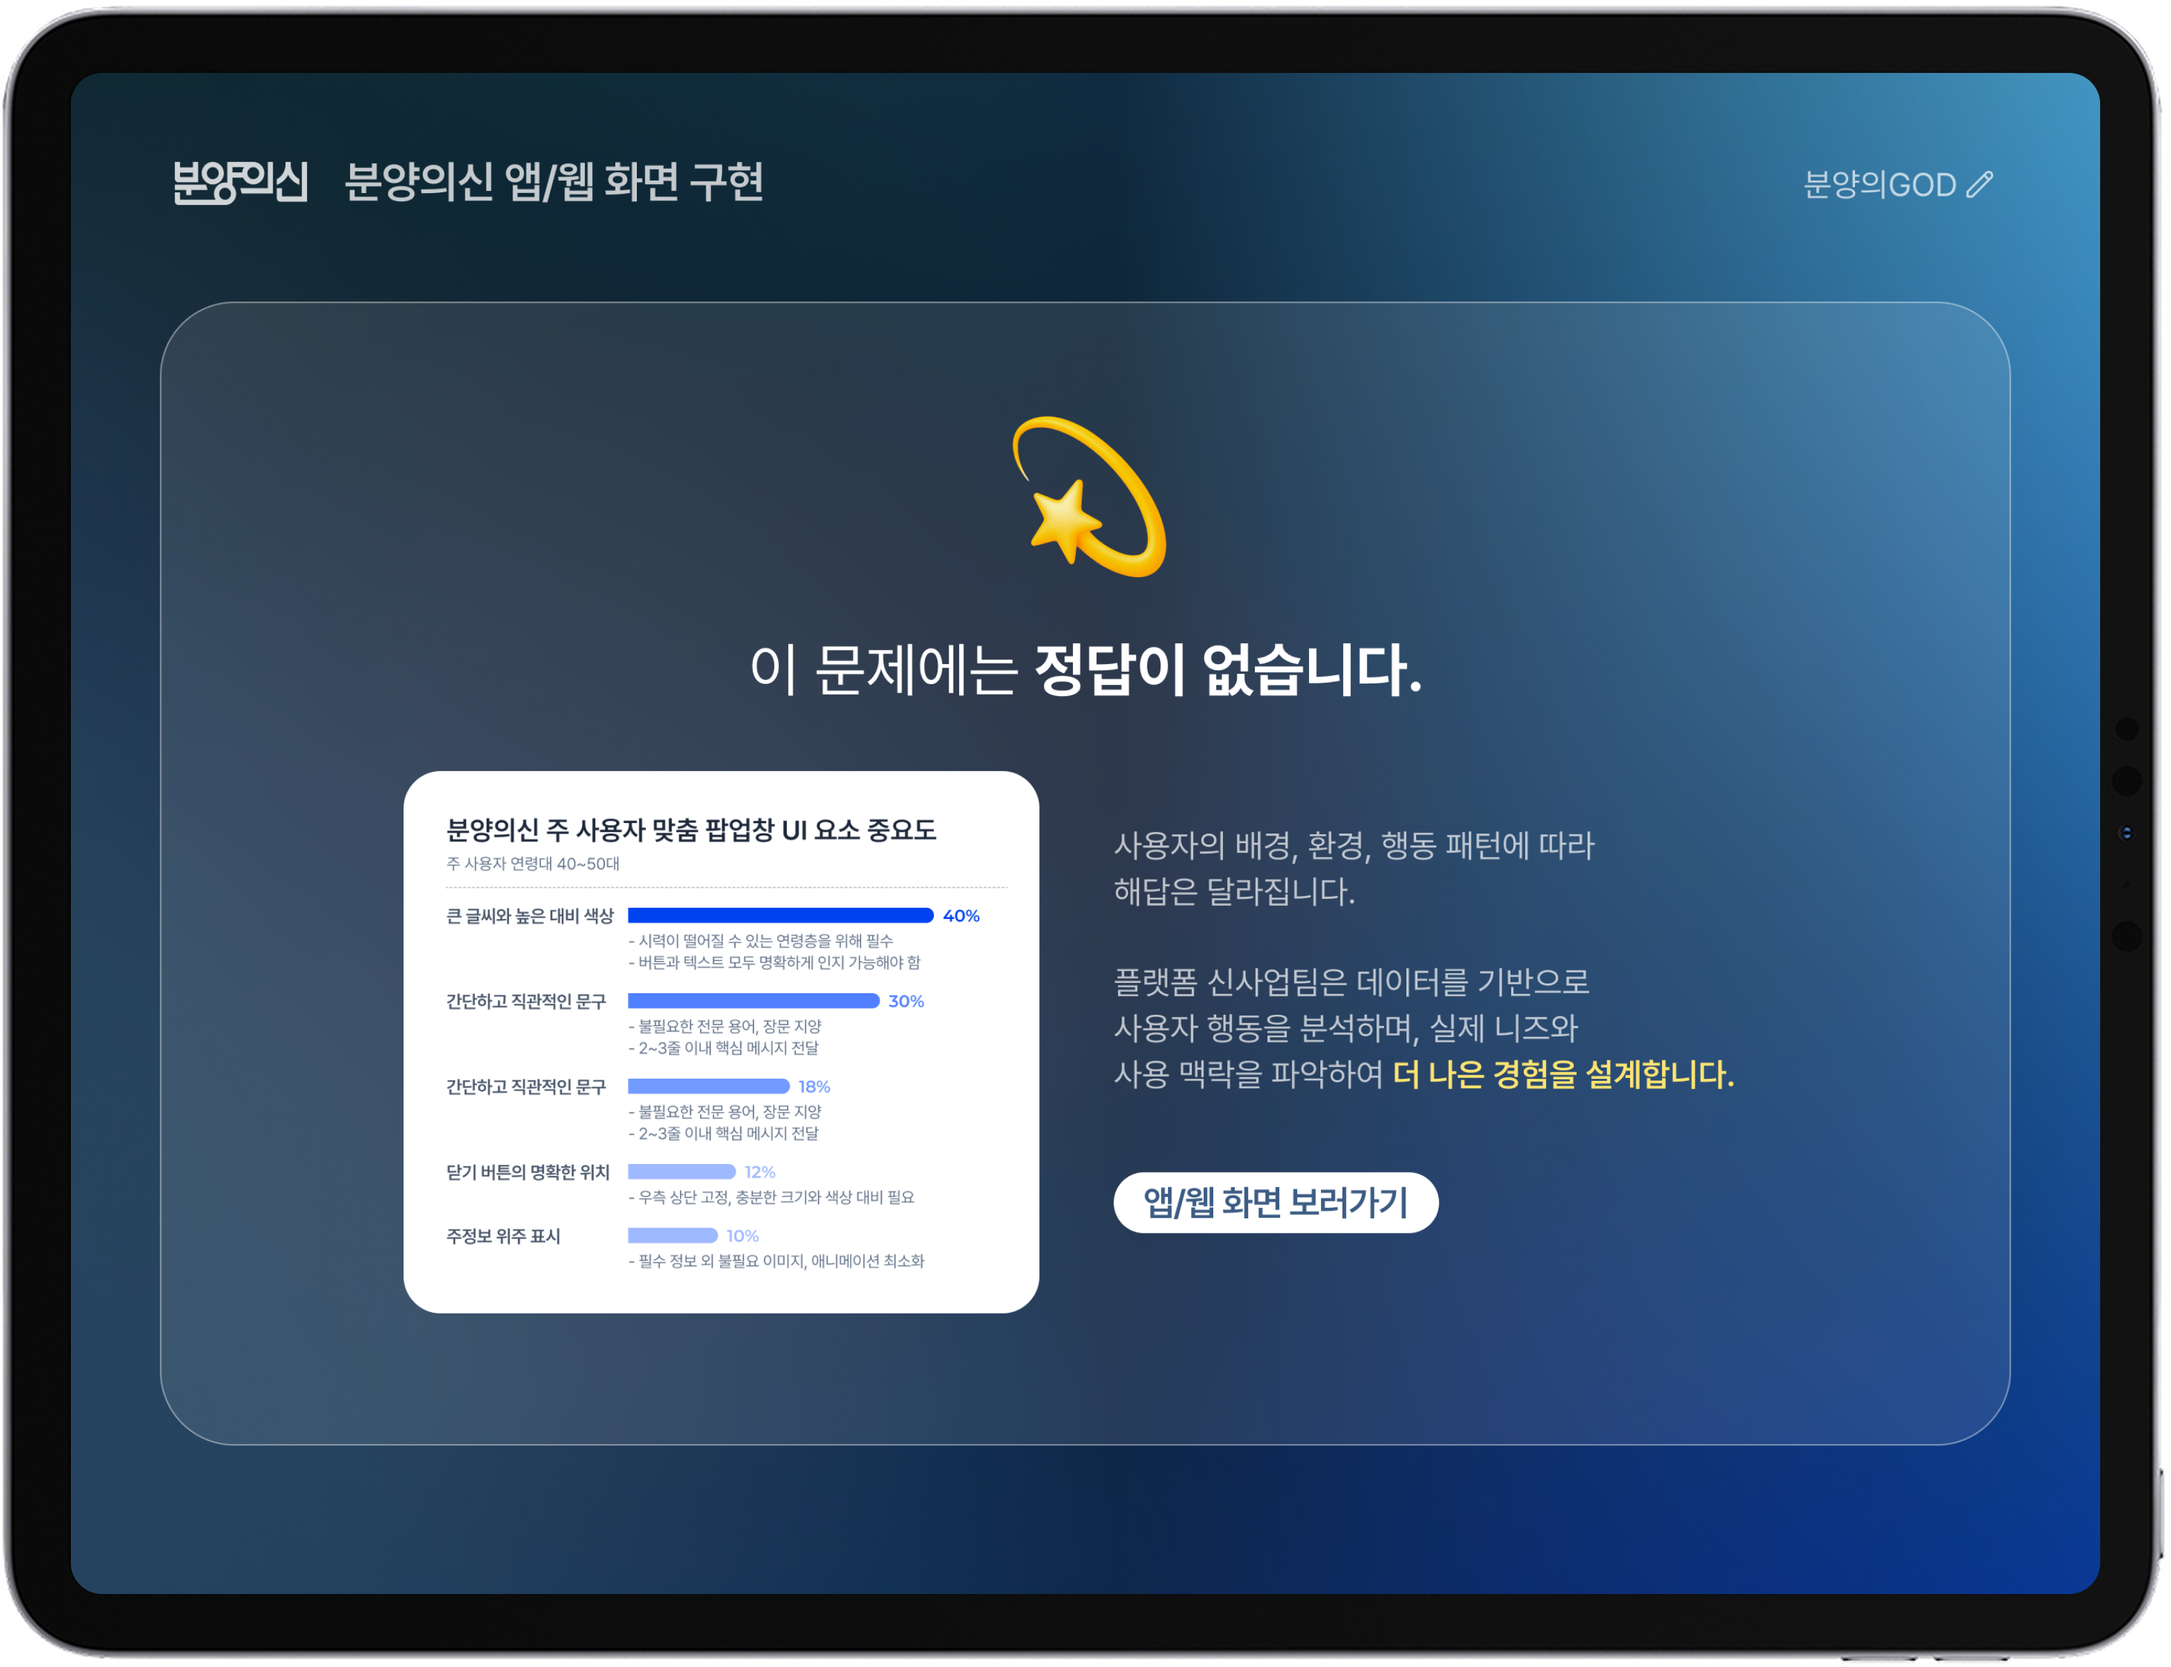
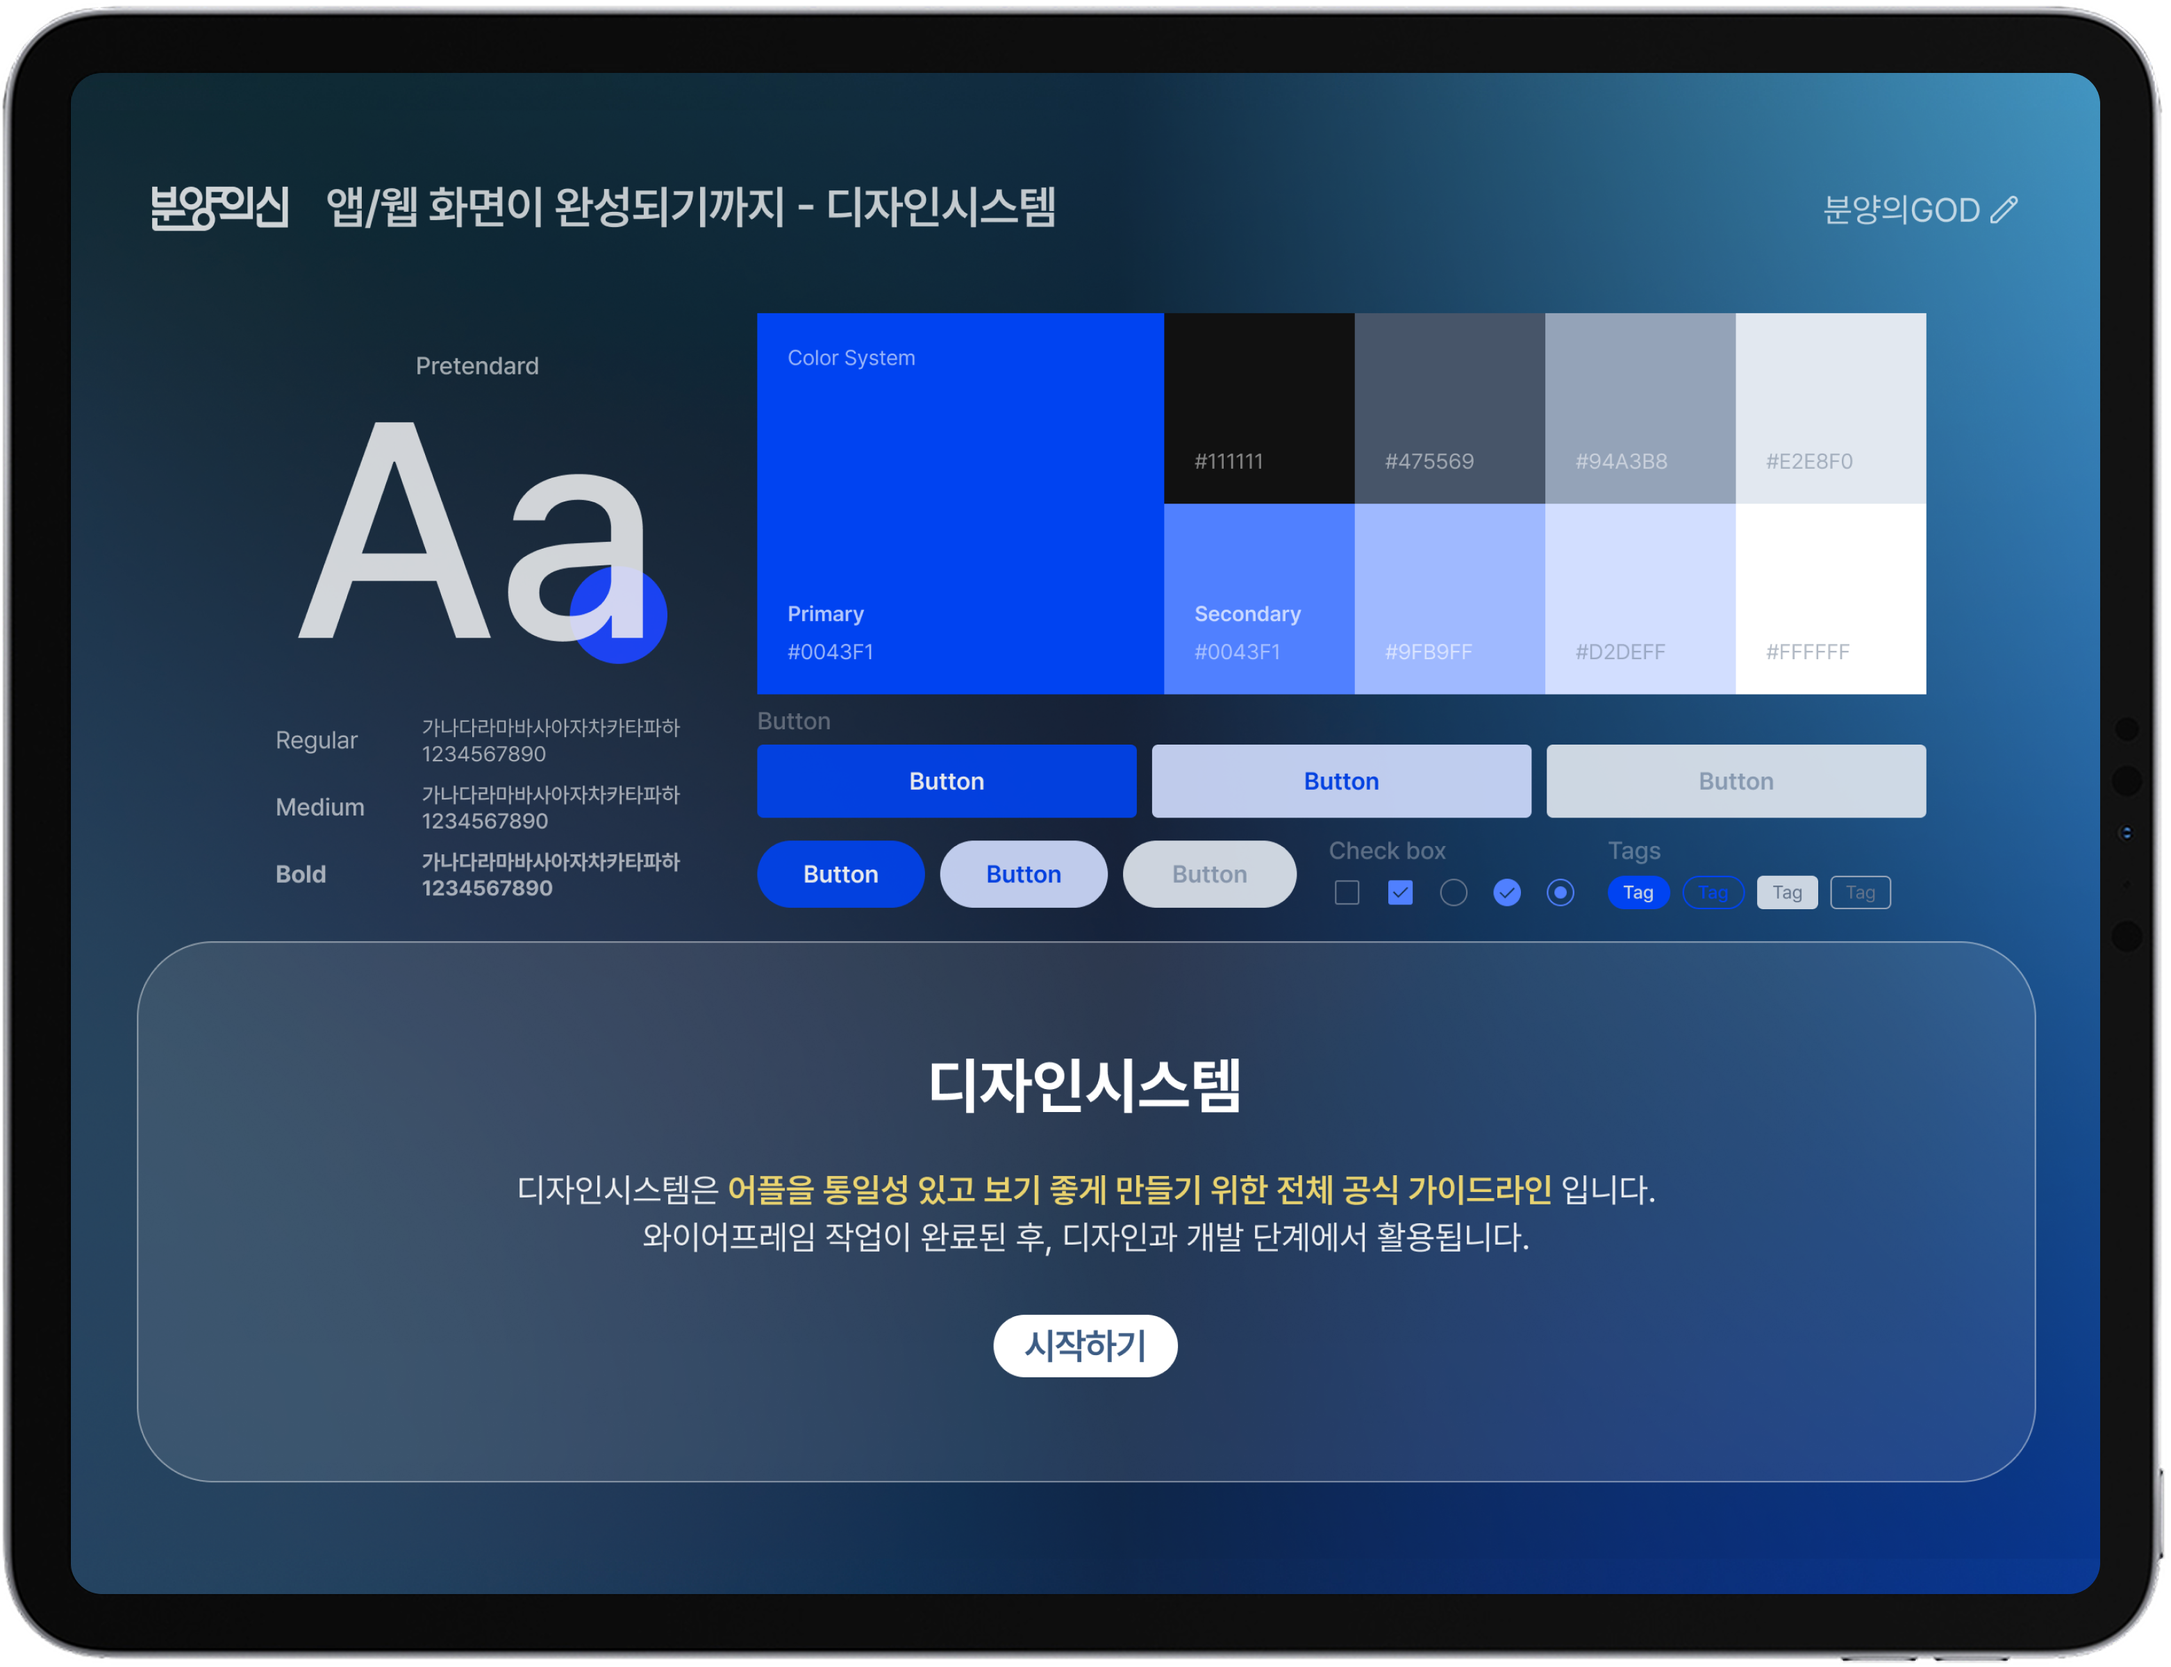
250904 발표자료

diff --git a/nextAdperson/nextAdPerson.html b/nextAdperson/nextAdPerson.html
@@ -437,10 +437,10 @@
                 <img src="img/ipadExperience8.png" class="imgIpad" />
             </div>
             <div class="section vertical-scrolling" id="section22">
-                <img src="img/ipadExperience7.png" class="imgIpad" />
+                <img src="img/ipadExperience9.png" class="imgIpad" />
             </div>
             <div class="section vertical-scrolling" id="section23">
-                <img src="img/ipadExperience8.png" class="imgIpad" />
+                <img src="img/ipadExperience10.png" class="imgIpad" />
             </div>
             <div class="section vertical-scrolling" id="section24">
                 <div class="titleWhy">
@@ -486,10 +486,10 @@
                 </div>
             </div>
             <div class="section vertical-scrolling" id="section26">
-                <img src="img/ipadExperience9.png" class="imgIpad" />
+                <img src="img/ipadExperience11.png" class="imgIpad" />
             </div>
             <div class="section vertical-scrolling" id="section27">
-                <img src="img/ipadExperience10.png" class="imgIpad" />
+                <img src="img/ipadExperience12.png" class="imgIpad" />
             </div>
             <div class="section vertical-scrolling" id="section28">
                 <div class="bgSection28">
